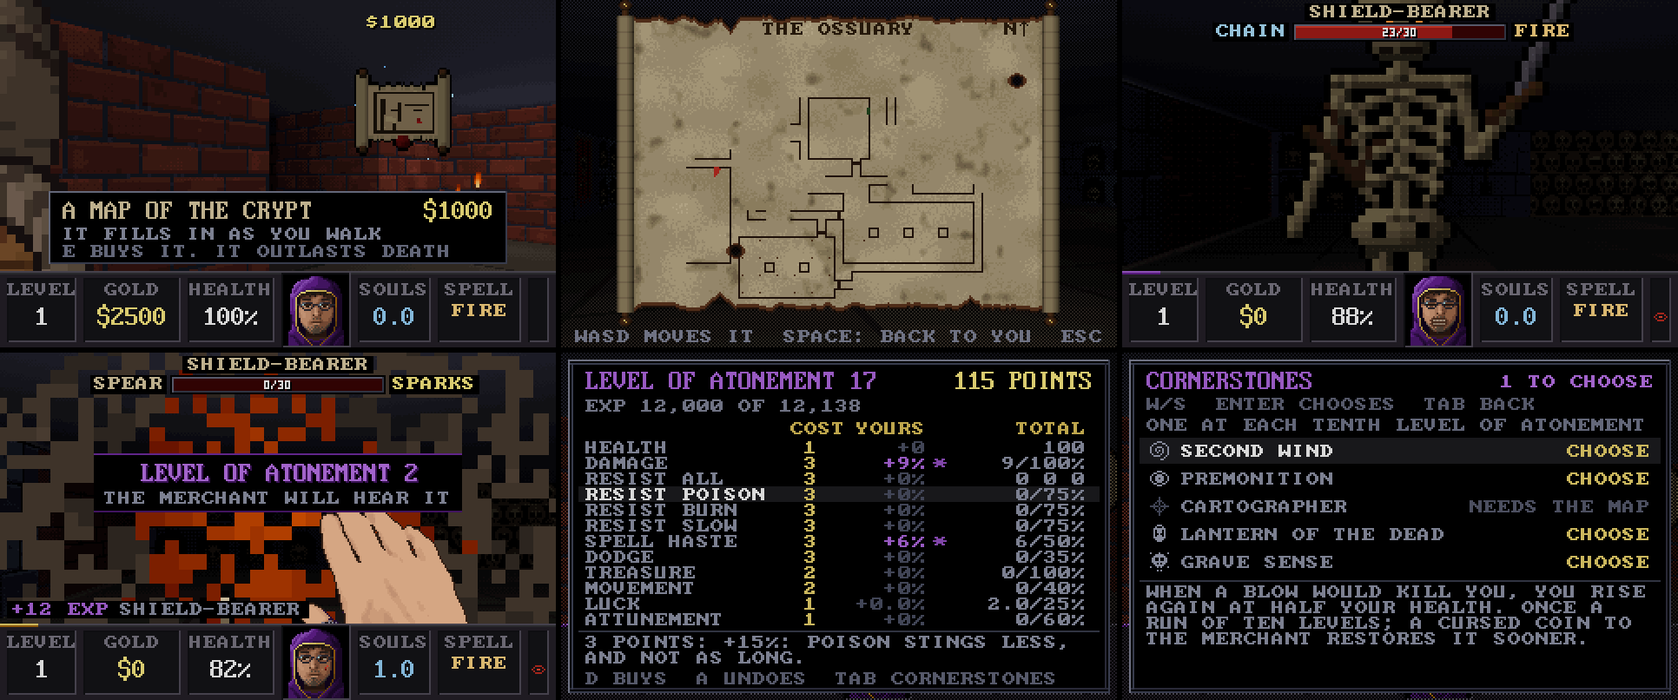
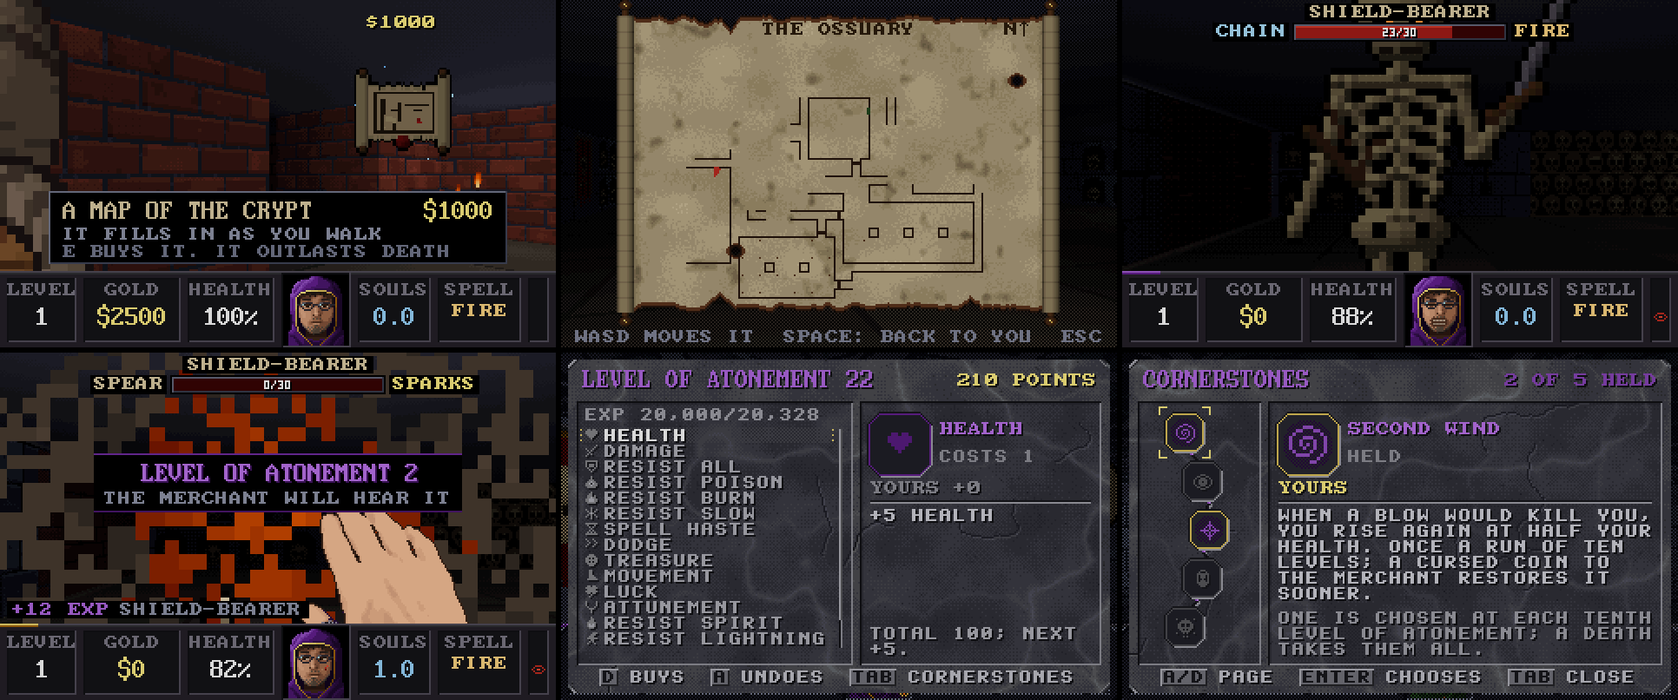
The pass over the screens, step 9: the checks, and the previews taken again
Every screen was taken at the four runs' palettes, with keys and with a pad
(uishots.sh's new PAD=1), and in a Backrooms pocket; the fit checks find
nothing. ASan is clean over every recipe (uishots.sh's new HOST=). The whole
pass gives the same EVENT lines as the build it began from: three dreams and
six sessions of a person.

One more fault is mended: toasts no longer draw over a menu's corner or the
tally's title, and wait until it is gone.

The ten README previews that show a menu are taken again: new frames of the
same screens, with the frames that show no menu kept from the old strips. The
page's descriptions of them are rewritten to match. A debug switch,
CRAWL_SEENALL, gives the bestiary's shots creatures to show.

Claude-Session: https://claude.ai/code/session_017SN6xpKregekzdwApnjVG9

Changed region(s): [[0.3106, 0.4963, 1.0, 1.0]]

diff --git a/site/index.html b/site/index.html
@@ -700,15 +700,15 @@ C:\&gt;<span id="cmd">HAUNTED.EXE</span><span class="cursor"></span></pre>
       <figcaption>A trial's door, Rising Water, the Prisms, the hidden message found and read, and the reckoning at the exit.</figcaption>
     </figure>
     <figure>
-      <img src="img/preview_catacomb_alignment.png" loading="lazy" width="1932" height="806" alt="Six frames of the Alignment and souls: the Lampstand's screen, FIRE RANK 20, its nodes from FIRE through FIRESTARTER and FIRE MASTERY to FIREWALL, the other path dimmed; a flame spirit with a face circling by the caster's hand in a saints' catacomb; her question, WHAT WERE YOU?, THE WITCHFINDER, with the six classes' marks and the Witchfinder's story; the map open on torn parchment while walking, its ink running on in pale violet across a hole burnt through it; a shield-bearer's health, 38/38, with the glyphs of what hurts it most and least; and a bat latched across the lower view, its wings from edge to edge and the edges of sight violet">
+      <img src="img/preview_catacomb_alignment.png" loading="lazy" width="1932" height="806" alt="Six frames of the Alignment and souls: the Lampstand's screen, FIRE RANK 17, its nodes laid out as a tree in carved sockets with Firestarter chosen and the pane beside it; a flame spirit with a face circling by the caster's hand in a saints' catacomb; her question of another past, THE ANATOMIST, with the six classes' marks in medallions and the Anatomist's story; the map open on torn parchment while walking, its ink running on in pale violet across a hole burnt through it; a shield-bearer's health, 38/38, with the glyphs of what hurts it most and least; and a bat latched across the lower view, its wings from edge to edge and the edges of sight violet">
       <figcaption>The Lampstand, Firewall's spirits, her question, the map at a walk, a target's glyphs, and a bat that has latched on.</figcaption>
     </figure>
     <figure>
-      <img src="img/preview_catacomb_atonement.png" loading="lazy" width="1932" height="806" alt="Six frames of the map and Levels of Atonement: a small scroll floating beside the merchant over its card, A MAP OF THE CRYPT, $1000, IT FILLS IN AS YOU WALK; the map unrolled on torn parchment, THE OSSUARY, its halls and rooms in brown ink and a red arrow; a shield-bearer with its health, 23/30, between CHAIN and FIRE; LEVEL OF ATONEMENT 2, THE MERCHANT WILL HEAR IT, over a fireball, +12 EXP SHIELD-BEARER at the lower left; the caster's screen, LEVEL OF ATONEMENT 17, 115 POINTS, with damage and spell haste bought; and CORNERSTONES, 1 TO CHOOSE, from Second Wind to Grave Sense">
+      <img src="img/preview_catacomb_atonement.png" loading="lazy" width="1932" height="806" alt="Six frames of the map and Levels of Atonement: a small scroll floating beside the merchant over its card, A MAP OF THE CRYPT, $1000, IT FILLS IN AS YOU WALK; the map unrolled on torn parchment, THE OSSUARY, its halls and rooms in brown ink and a red arrow; a shield-bearer with its health, 23/30, between CHAIN and FIRE; LEVEL OF ATONEMENT 2, THE MERCHANT WILL HEAR IT, over a fireball, +12 EXP SHIELD-BEARER at the lower left; the ascend screen in carved marble, LEVEL OF ATONEMENT 22, 210 POINTS, its lines down the left with their marks and the chosen one's pane; and CORNERSTONES, 2 OF 5 HELD, five sockets down a carved bow from Second Wind to Grave Sense">
       <figcaption>The map at the merchant's and unrolled, a target's health, a Level of Atonement banked, the caster's screen and the cornerstones (the map and the target's readout as they were before the eleventh beta).</figcaption>
     </figure>
     <figure>
-      <img src="img/preview_catacomb_pad.png" loading="lazy" width="1932" height="806" alt="Six frames with a game controller: HOLD ANY BUTTON TO ENTER THE CRYPT over HAUNT.EXE's grinning jack-o'-lantern; THE CONTROLS ARE YOURS in the pad's words, L-STICK WALK, R-STICK TURN, RT CASTS, A OPENS in green, above a ware's card, A BUYS, X HOLDS; the merchant's prompt, A: SIGN HER LEDGER, OR PAT HER; the wardrobe, D-PAD PICK, A MOVE, LB/RB PAGE; the bestiary, B CLOSE in red; and the Codex's page for Swift Dodge, B, AND THE WAY THE LEFT STICK LEANS">
+      <img src="img/preview_catacomb_pad.png" loading="lazy" width="1932" height="806" alt="Six frames with a game controller: HOLD ANY BUTTON TO ENTER THE CRYPT over HAUNT.EXE's grinning jack-o'-lantern; the controls in the pad's words on a band of stone, L-STICK WALK, R-STICK TURN, RT CASTS, A OPENS in green; the merchant's prompt, A: SIGN HER LEDGER, OR PAT HER; the wardrobe as sockets on a carved figure, D-PAD PICK, A MOVE, LB/RB PAGE on key caps; the bestiary's page for the shambler, standing in an arched niche, B CLOSE in red; and the Codex's page for Treasure Hunter, its keys on caps along the foot">
       <figcaption>With a controller: holding a button over the pumpkin patch, the controls and the cards in the pad's words, the wardrobe, the bestiary and the Codex.</figcaption>
     </figure>
     <figure>
@@ -716,16 +716,16 @@ C:\&gt;<span id="cmd">HAUNTED.EXE</span><span class="cursor"></span></pre>
       <figcaption>The four bosses in their own rooms: the knight's card and its blade, the spider's card, the Deacon in his chapel, and the Wraith struck on its throne beside a void.</figcaption>
     </figure>
     <figure>
-      <img src="img/preview_catacomb_ledger.png" loading="lazy" width="1932" height="806" alt="Six frames of CATACOMB's ledger and death: the merchant's menu, SIGN THE LEDGER, ANOTHER PEDESTAL, PAT HER, LEAVE, with a red warning that the run is unsigned; SIGN THE LEDGER with two signed pages and a blank one; a red card, YOU DIED ON LEVEL 12, TAKEN BY A ROTTEN SHIELD-BEARER; a gravestone's page, HERE LIES A DWELLER, with its spellbook and runes; THE DWELLER FAILED THIS TRIAL over a sealed doorway; and the card CAUGHT CHEATING THE DEAD">
+      <img src="img/preview_catacomb_ledger.png" loading="lazy" width="1932" height="806" alt="Six frames of CATACOMB's ledger and death, cut in marble: the merchant's menu, SIGN THE LEDGER, ANOTHER PEDESTAL, PAT HER, LEAVE, with a red warning that the run is unsigned; SIGN THE LEDGER, three blank pages on a ledger stone with her paw in its corners; a headstone over the red haze, YOU DIED ON LEVEL 21, and what went with you; a gravestone's page as a headstone, HERE LIES A DWELLER, with its lines and runes; THE DWELLER FAILED THIS TRIAL over a sealed doorway; and the headstone CAUGHT CHEATING THE DEAD">
       <figcaption>Her menu, signing the ledger, a death and its stone, a trial failed, and her claim.</figcaption>
     </figure>
     <div class="folds">
       <details>
         <summary>Earlier screens <span class="hint">the crypt, the creatures, HAUNT.EXE</span></summary>
         <div class="fold">
-          <p>The strips of menus, creatures, wisps and pockets were made before the tenth beta, and show the crypt's old walls behind them.</p>
+          <p>Every menu in these strips was taken again for the pass over the screens. The frames of creatures, wisps and pockets, and some of the crypt's, are older: made before the tenth beta, they show the crypt's old walls and the old status bar.</p>
           <figure>
-            <img src="img/preview_catacomb_hall.png" loading="lazy" width="1932" height="806" alt="Six frames of the merchant's hall: the Accursed Portal, a red-violet swirl set in the grave plot's wall of ashlar and rubble; the Portal's screen with three runs and four challenges; the Hexed Totem's screen with Swift Dodge, Tangled Web, Grave Call and Wraithwalk; the Corpus Compendium's page of spells and prices; the Wretched Repository's places, gold and coins; and the Codex of Affixations' page on her claim">
+            <img src="img/preview_catacomb_hall.png" loading="lazy" width="1932" height="806" alt="Six frames of the merchant's hall: the Accursed Portal, a red-violet swirl set in the grave plot's wall of ashlar and rubble; the Portal's screen in marble with three runs and four challenges in a well; the Hexed Totem's screen, its four abilities with their rank sockets and the chosen one's words in a band; the Corpus Compendium's page of bracers and prices; the Wretched Repository's places, gold and coins; and the Codex of Affixations' page on Treasure Hunter">
             <figcaption>The Accursed Portal and its screen, the Hexed Totem, the Corpus Compendium, the Wretched Repository and the Codex.</figcaption>
           </figure>
           <figure>
@@ -737,7 +737,7 @@ C:\&gt;<span id="cmd">HAUNTED.EXE</span><span class="cursor"></span></pre>
             <figcaption>Severance: the doorway from the crypt, a white hall, a ward door, an office, a skeleton under the panels, and the water cooler.</figcaption>
           </figure>
           <figure>
-            <img src="img/preview_catacomb_shrine.png" loading="lazy" width="1932" height="806" alt="Six frames: the Rune Shrine, a pale stone with a gold ring and cross, sanctified, with E: CURSE IT WITH A CURSED COIN; its screen of nine empty slots, cursed and giving Common runes; the slots filling, THREE COMMON MEND BECOME ONE UNCOMMON; the caster's page with two Cursed Coins and the runes held; A CURSED COIN AT THE END OF A CHAIN sliding in for the shrine; and the Black Altar offering to send its wisp on for 20 souls">
+            <img src="img/preview_catacomb_shrine.png" loading="lazy" width="1932" height="806" alt="Six frames: the Rune Shrine, a pale stone with a gold ring and cross, sanctified, with E: CURSE IT WITH A CURSED COIN; its screen in marble, nine slots cut as cups, cursed and giving Uncommon runes; the runes of a pull coming into the slots; the caster's page with its totals and the runes held; A CURSED COIN AT THE END OF A CHAIN sliding in for the shrine; and the Black Altar's three gifts on a tablet, WAKE ITS WISP for 10 souls">
             <figcaption>The Rune Shrine sanctified, cursed and pulled, three runes combining, the caster's runes and coins, a coin found, and the altar sending its wisp on.</figcaption>
           </figure>
           <figure>
@@ -745,19 +745,19 @@ C:\&gt;<span id="cmd">HAUNTED.EXE</span><span class="cursor"></span></pre>
             <figcaption>Shambler, Drowned, bone hound, the Wraith; hunting spider, ghoul, knight, brood mother; shade, ember imp, deacon and gargoyle.</figcaption>
           </figure>
           <figure>
-            <img src="img/preview_catacomb_bestiary.png" loading="lazy" width="1932" height="806" alt="Six frames: an achievement, A HOLLOW KNOCK, sliding in as a secret wall grinds back; the bestiary's pages for a blue skeleton, a skeleton knight, a green deacon and a red gargoyle, each with its kills and what hurts it; and the list of achievements, 16 of 112 earned">
+            <img src="img/preview_catacomb_bestiary.png" loading="lazy" width="1932" height="806" alt="Six frames: an achievement, A HOLLOW KNOCK, sliding in as a secret wall grinds back; the bestiary's pages, each creature standing in an arched niche: a skeleton, a rotten bat of rank II, the Whipper-In and the Sexton, each with its kills and what hurts it; and the list of achievements in a well with its scroll's groove">
             <figcaption>An achievement, four pages of the bestiary in four ranks, and the achievements.</figcaption>
           </figure>
           <figure>
-            <img src="img/preview_catacomb_wisps.png" loading="lazy" width="1932" height="806" alt="Six frames of CATACOMB's wisps: the WISPS list with the way out and the gold, silver and crimson keys at a soul each; a wisp kindling, bright, for the silver key; an exit wisp's blue trail down a hall; THE BLACK ALTAR's three gifts and their prices; a green skeleton beside a blessed wisp's trail; and the blessed wisp, haloed in pale gold, waiting at the rune-sealed exit">
+            <img src="img/preview_catacomb_wisps.png" loading="lazy" width="1932" height="806" alt="Six frames of CATACOMB's wisps: the WISPS list on a tablet, the way out for a soul, its toggle a cup cut in the stone; a wisp kindling, bright, for the silver key; an exit wisp's blue trail down a hall; THE BLACK ALTAR's three gifts on a tablet; a green skeleton beside a blessed wisp's trail; and the blessed wisp, haloed in pale gold, waiting at the rune-sealed exit">
             <figcaption>The wisps, the keys' wisps and the Black Altar's gifts; a blessed wisp at the way out.</figcaption>
           </figure>
           <figure>
-            <img src="img/preview_catacomb_play.png" loading="lazy" width="1932" height="806" alt="Six frames of CATACOMB played by hand: the HOLD H TO TAKE CONTROL bar, with the small readout raised above it, in an ossuary; the controls listed over a clear view and the status bar; the merchant's card for a pair of Rare Boots of Shadows, free on the first visit; a fireball leaving the hand and bursting on a skeleton; the wardrobe, with Uncommon Robes of the Bulwark chosen and three spares in the bag; and the LEAVE THE CRYPT? question, with OPEN THE LEDGER below the rule">
+            <img src="img/preview_catacomb_play.png" loading="lazy" width="1932" height="806" alt="Six frames of CATACOMB played by hand: the HOLD H TO TAKE CONTROL bar in the merchant's room; the controls listed on a band of stone over a skeleton's health; the merchant's card for Uncommon Robes of Quickening at 7,425 gold, on a band of stone; a fireball leaving the hand and bursting on a skeleton; the wardrobe as sockets on a carved figure, a bracer chosen and its card in the pane; and the LEAVE THE CRYPT? headstone, OPEN THE LEDGER below the rule">
             <figcaption>Taking over, shopping, casting, the wardrobe and the question at Esc.</figcaption>
           </figure>
           <figure>
-            <img src="img/preview_catacomb_items.png" loading="lazy" width="1932" height="806" alt="Six frames of CATACOMB's wares: the merchant's card for an Anointed Exquisite Communing Hood of the Bulwark in gold; the caster's page of totals, with what abilities add and the spellbook; THE BAG IS FULL, asking which spare to let go; a spectre and a shield-bearer shown as red shapes through the wall by Commune; a Black Altar woken, a violet flame in its bowl and its violet wisp's motes going off down the hall; and the altar burning gold">
+            <img src="img/preview_catacomb_items.png" loading="lazy" width="1932" height="806" alt="Six frames of CATACOMB's wares: the merchant's card for an Anointed Exquisite Communing Hood of the Bulwark in gold; the caster's page of totals in a well of marble, with what abilities add and the runes held; THE BAG IS FULL, the bag's places and a spare's card in wells; a spectre and a shield-bearer shown as red shapes through the wall by Commune; a Black Altar woken, a violet flame in its bowl and its violet wisp's motes going off down the hall; and the altar burning gold">
             <figcaption>An Exquisite hood, the caster's totals, a full bag, Commune, and a Black Altar woken and burning gold.</figcaption>
           </figure>
           <figure>

diff --git a/src/scene_crawl.c b/src/scene_crawl.c
@@ -3852,7 +3852,8 @@ static void toast(int spr, int family, int rank, int progress, const char *title
 static int boss_fighting(void);
 static void update_toasts(float dt) {
     if (!TOASTS.n || boss_fighting()) return;                      /* they wait out a boss's fight, */
-    if (G.hint_t > 0.0f && G.player && !G.ui && !G.dead) return;   /* and the controls card, which they would cover */
+    if (G.hint_t > 0.0f && G.player && !G.ui && !G.dead) return;   /* and the controls card, which they would cover, */
+    if ((G.player && G.ui) || G.tally) return;                     /* and a menu or the tally, over whose corner they had come */
     if (TOASTS.t < 0.0f) { TOASTS.t = 0.0f; snd_sfx_ex(TOASTS.q[0].progress ? SFX_TICK : SFX_KEYGET, TOASTS.q[0].progress ? 0.6f : 0.9f, 0.5f); }
     TOASTS.t += dt;
     if (TOASTS.t >= toast_len(&TOASTS.q[0])) {
@@ -10542,6 +10543,10 @@ static void debug_gear(void) {
     if (getenv("CRAWL_ABIL")) give_ability(atoi(getenv("CRAWL_ABIL")));
     if (getenv("CRAWL_BAG")) give_bag(atoi(getenv("CRAWL_BAG")));
     if (getenv("CRAWL_GOLD")) RUN.treasure = atoi(getenv("CRAWL_GOLD"));
+    if (getenv("CRAWL_SEENALL")) for (int k = 0; k < NKINDS && k < REC_KINDS; k++) {   /* every kind met, and some slain, for the shots */
+        RUN.rec.seen[k] = 0x1f;
+        for (int r = 0; r < NRANK; r++) RUN.rec.kills[k][r] = (uint16_t)((k * 7 + r * 5) % 23 + (r == 0 ? 30 : 0));
+    }
     if (getenv("CRAWL_STONE")) for (int k = 0; k < atoi(getenv("CRAWL_STONE")) && k < STONES; k++) {   /* stones in the plot, from what is held */
         Stone *st = &RUN.stones[k];
         memset(st, 0, sizeof *st);
@@ -26411,7 +26416,7 @@ static void crawl_render(Frame *f) {
 #ifdef CRAWL_DEBUG
     ui_check = 1; ui_check_frame();
 #endif
-    if (G.tally) { render_tally(f); if (G.player && G.ui) render_ui(f); render_toasts(f); con_render(f); return; }
+    if (G.tally) { render_tally(f); if (G.player && G.ui) render_ui(f); con_render(f); return; }   /* toasts wait for the next level */
     g_camfog = fog_at(G.px, G.py);
     fog_tint = G.tri >= 0 && G.tri_state == TRS_ON && in_trial((int)G.px, (int)G.py) ? TRI_FOG[G.tri] : 0;   /* a trial's room, turned */
     float ang = G.ang + G.kick;
@@ -26446,7 +26451,7 @@ static void crawl_render(Frame *f) {
     render_messages(f);
     if (G.claim_card) render_claim(f);
     if (G.player && G.ui) render_ui(f);
-    if (!(G.player && G.ui == UI_CLASS)) render_toasts(f);
+    if (!(G.player && G.ui)) render_toasts(f);                     /* never over a menu: they wait for it */
     tint(f);
     con_render(f);
 }

diff --git a/README.md b/README.md
@@ -36,7 +36,7 @@ Two scenes are included. They alternate every few minutes (configurable) with a 
 
 ![CATACOMB's four runs: a chapter house with its plaster falling away and a knight's slab with candles in the Crypts; a shield-bearer wading through a cistern and a spinners' gallery of bone and webs in the Catacombs; a timbered gallery with mine carts and a lamp, and a fossil hall with a fire, in the Hollows; a geode under a roof of amethyst, and a glass hall with its cracks alight, in the Deep](docs/preview_catacomb_runs.png)
 ![CATACOMB's trials and puzzles: a trial's door marked with skull and crossed bones in the Catacombs, Rising Water under way with its hourglass and the drowned wading in, the magma's beam through two glass prisms in a Deep puzzle, the hidden message found in a candle-box, the documents page with the leaf's text, and the reckoning's slip at the exit, THE DEAD KEEP COUNT](docs/preview_catacomb_trials.png)
-![CATACOMB's Alignment and souls: the Lampstand's screen with Fire at rank 20 and Firewall bought, a flame spirit circling the caster's hand, her question WHAT WERE YOU? at the Witchfinder, the map open while walking with violet ink across a hole burnt in the parchment, a shield-bearer's health with the glyphs of what hurts it, and a bat latched across the view](docs/preview_catacomb_alignment.png)
+![CATACOMB's Alignment and souls: the Lampstand's tree with Fire at rank 17 and Firestarter chosen, a flame spirit circling the caster's hand, her question of another past at the Anatomist, the map open while walking with violet ink across a hole burnt in the parchment, a shield-bearer's health with the glyphs of what hurts it, and a bat latched across the view](docs/preview_catacomb_alignment.png)
 ![CATACOMB's map and Levels of Atonement: the map floating beside the merchant with its card, the map unrolled in the Ossuary, a shield-bearer's health with the spells that hurt it most and least, a Level of Atonement banked as it falls, the caster's screen, and the cornerstones](docs/preview_catacomb_atonement.png)
 ![CATACOMB with a game controller: holding a button over HAUNT.EXE's pumpkin patch, the controls in the pad's words, the merchant's prompt, the wardrobe, the bestiary and the Codex with their buttons in colour](docs/preview_catacomb_pad.png)
 ![CATACOMB's bosses: the Ill-Fated Skeleton Knight's card in the knights' vault, the knight raising its blade, the Wandering Hunting Spider's card in its gallery, the Black Deacon in his chapel in a green light with his ward's shards about him, a fire bursting on him, and a Fire Bolt bursting on the Wraith Unbound on its throne beside a void](docs/preview_catacomb_bosses.png)
@@ -44,12 +44,12 @@ Two scenes are included. They alternate every few minutes (configurable) with a 
 ![CATACOMB's hall: the Accursed Portal in the grave plot's ashlar and its screen, the Hexed Totem, the Corpus Compendium, the Wretched Repository and the Codex of Affixations](docs/preview_catacomb_hall.png)
 ![CATACOMB's Backrooms: a chained room's doorway from the crypt, a corridor under the tubes, a leak, a candlestand hanging from the ceiling, a shambler caught in a loop, and the visportal at a chain's end](docs/preview_catacomb_backrooms.png)
 ![CATACOMB's Severance: the doorway from the crypt, a white hall, a ward door, an office's desks, a skeleton under the panels, and the water cooler at a chain's end](docs/preview_catacomb_severance.png)
-![CATACOMB's Rune Shrine: the shrine in the merchant's room, its screen, three runes combining, the caster's runes and coins, a Cursed Coin found, and the Black Altar sending its wisp on](docs/preview_catacomb_shrine.png)
+![CATACOMB's Rune Shrine: the shrine in the merchant's room, its screen, a pull's runes coming in, the caster's totals and runes, a Cursed Coin found, and the Black Altar's gifts](docs/preview_catacomb_shrine.png)
 ![CATACOMB: the new creatures in the crypt, from the shambler to the gargoyle](docs/preview_catacomb_creatures.png)
 ![CATACOMB: an achievement, the bestiary's pages and the achievements list](docs/preview_catacomb_bestiary.png)
 ![CATACOMB: the merchant in her hall of ashlar, her wares, a burial vault, an ossuary, Fire Bolts at a spectre and a skeleton, a chapter house, and the caster's portrait after a hit](docs/preview_catacomb.png)
 ![CATACOMB: a chandelier over an ossuary's bone walls, a hoard with a crown, a vault strapped in gold, a cracked wall pressed and the secret behind it, and the rune-sealed exit with a wisp before it](docs/preview_catacomb_crypt.png)
-![CATACOMB's wisps: the L list with three keys lying, a wisp kindling for the silver key, an exit wisp's trail down a hall, the Black Altar's gifts, a skeleton by a blessed wisp's trail, and the blessed wisp waiting at the way out](docs/preview_catacomb_wisps.png)
+![CATACOMB's wisps: the L list, a wisp kindling for the silver key, an exit wisp's trail down a hall, the Black Altar's gifts, a skeleton by a blessed wisp's trail, and the blessed wisp waiting at the way out](docs/preview_catacomb_wisps.png)
 ![CATACOMB played by hand: holding H, the controls, shopping, casting, the wardrobe and the question at Esc](docs/preview_catacomb_play.png)
 ![CATACOMB's wares: an Exquisite hood at the merchant, the caster's numbers, a full bag, Commune's red shapes through the wall, and a Black Altar woken and burning gold](docs/preview_catacomb_items.png)
 ![HAUNT.EXE: the jack-o'-lantern and the skull](docs/preview_haunt_art.png)

diff --git a/docs/PLAN-ui.md b/docs/PLAN-ui.md
@@ -5,7 +5,7 @@ before PLAN-ai's step 11, and U10 (b), full screens keep the crypt dimmed in a 4
 `claude/gifted-rubin-q8up37` from main (1.0.0b13 with the art pass so far and PLAN-ai's steps 0-10). Step 0 is done (the
 before sheets in `docs/uipass/`). Step 1's sheet was approved by the owner (3 November). Step 2 is built (harness only): every menu, card and the tally
 wear the stone. Step 3 is built (harness only): the Alignment, at the Lampstand and on Tab's fourth page, is the
-approved stone. Step 4 is built (harness only): the cornerstones, the Hexed Totem, ascend and her question of what you were. Step 5 is built (harness only): Tab's pages, the bestiary and the Codex. Step 6 is built (harness only): her hall's screens. Step 7 is built (harness only): the crypt's screens, the cards and the tally. Step 8 is built (harness only): the HUD in the run's stone. Like the art pass, it is visual only: nothing in the simulation, the saves or the
+approved stone. Step 4 is built (harness only): the cornerstones, the Hexed Totem, ascend and her question of what you were. Step 5 is built (harness only): Tab's pages, the bestiary and the Codex. Step 6 is built (harness only): her hall's screens. Step 7 is built (harness only): the crypt's screens, the cards and the tally. Step 8 is built (harness only): the HUD in the run's stone. Step 9, the checks, is done: the pass is built. Like the art pass, it is visual only: nothing in the simulation, the saves or the
 autopilot's numbers may move.**
 
 ## Decided (3 November 2026)
@@ -380,7 +380,7 @@ Each step committed, pushed and logged at the end of this plan, so it can be han
    page, the full bag (built).
 7. **The crypt's:** Esc's question, the L list, the altar, the Black Shrine, the cards, the tally (built).
 8. **The HUD** (built).
-9. **The checks:** every screen at each run's palette, with keys and with a pad, at the darkest and brightest crypt behind;
+9. **The checks** (done): every screen at each run's palette, with keys and with a pad, at the darkest and brightest crypt behind;
    the fit script clean; a dream run with `CRAWL_RUNID` gives the same `EVENT` lines before and after (nothing in the
    simulation moved); ASan over sessions that open every screen; the README's previews retaken where they show a menu.
 
@@ -623,3 +623,20 @@ My answer is marked **(mine)**; the owner's take it over.
   up 1.74-1.82 ms against 1.61-1.67 (two runs of `bench` each), the dream 1.52-1.55 against 1.41-1.44. Frames:
   `docs/uipass/step8-L*.png`. Nothing played by hand. Next: step 9, the checks, with keys and with a pad, and the README's
   previews where they show a menu.
+- 3 November 2026, step 9: the checks. `tools/uishots.sh` gained `PAD=1` (every recipe played on a pad: the takeover held on X, E and
+  Enter on A, Esc on Menu, Tab on View, Space and L on Y, the D-pad for W/S/A/D in menus and for B, C and H in play; the recipes
+  that walk are left out) and `HOST=` (another build, an ASan one), and a recipe for the wardrobe in a Backrooms pocket, the
+  brightest crypt behind a menu. Every screen at the four palettes, with keys (`docs/uipass/step9-L*.png`) and with a pad
+  (`step9pad-L*.png`): the fit checks find nothing. In a pocket the menu reads, the yellow carpet and paper go grey in the 4 px
+  margin while the marble is lent, and come back as the menu closes. One more fault, mended: a toast went on being drawn over a
+  menu's corner and over the tally's title (section 1.2 had found it there at step 0); toasts now wait while a menu or the tally is
+  up, as they wait for a boss's fight and the controls card. ASan clean over every recipe at levels 1 and 31 with keys and at 21
+  with a pad (113 sessions). The pass whole, against the build it began from (main at the minds' steps 0-10, its `apl` given the
+  harness's fix for `HOST_INPUT`): two 900 s dreams, a 600 s dream from level 21 and six sessions of a person (the ledger signed,
+  Tab's pages and pieces moved, the Lampstand bought from, the tally and the reckoning, Esc and the L list, a pad through Tab and
+  the bestiary) give the same `EVENT` lines, line for line. A debug switch, `CRAWL_SEENALL=1` (every kind met, some slain), for
+  the bestiary's shots.
+  The README's previews that show a menu were taken again (ten strips: trials, alignment, atonement, pad, ledger, hall, shrine,
+  bestiary, wisps, play, items): their menus are new frames of the same screens, the frames without a menu kept from the old
+  strips; the old strips are in the history. The page's descriptions of them say what they now show, and its note says which
+  frames are older. Nothing played by hand. The pass is built; what is left is the owner's look, and the release.

diff --git a/CLAUDE.md b/CLAUDE.md
@@ -179,8 +179,8 @@ fourth page is `ui_tree`, filled by `render_align` from the line's state. Step 4
 icons for the kinds of piece), the bestiary (`ui_niche`) and the Codex. Step 6 is built (harness only; CI compiled the Windows
 build): her hall's screens (`hall_frame`, `hall_keys`, `ui_row`, `ui_scroll`). Step 7 is built (harness only; CI compiled the Windows build):
 the crypt's screens, the cards as headstones (`card_box`), the tally as a memorial tablet. Step 8 is built (harness only; CI compiled the
-Windows build): the HUD in the run's stone (the bar a tablet, `bevel` a well, `ui_band` behind words over the crypt). Step 9 (the checks)
-is next.
+Windows build): the HUD in the run's stone (the bar a tablet, `bevel` a well, `ui_band` behind words over the crypt). Step 9, the checks, is done
+(`PAD=1` and `HOST=` for `tools/uishots.sh`; the README's menu previews taken again): the pass is built, harness only.
 Its section 10 is the hand-off log: read it first.
 
 ## Working with the owner
@@ -280,7 +280,7 @@ level's omens on any level, every s seconds, the first at once), `CRAWL_TOTEM=dd
 each in boss order, and that boss counted beaten), `CRAWL_SCRIP=n` (n scrip of each boss, all four counted beaten),
 `CRAWL_PEDS=n` (the merchant's pedestals), `CRAWL_TPCAT=1` (before the merchant herself), `CRAWL_TPSTONE=1` (before the plot's newest stone), `CRAWL_STONE=n` (n stones in the plot, from what is held), `CRAWL_TPSHRINE=1`
 (before the Rune Shrine), `CRAWL_LETGO=1` (the full bag's question as you take over in her room, with a bag), `CRAWL_HOLDCARD=1` (a level's card and a boss's held
-up once shown), `CRAWL_CLAIM=1` (her claim's card as you take over, its words only, nothing taken), `CRAWL_TOAST=1` (a pop-up as you take over), `CRAWL_TPLECTERN=1` (before the Compendium), `CRAWL_TPREPO=1` (before the Repository), `CRAWL_TPTOTEM=1` (in the merchant's back room facing the Hexed Totem once you take control), `CRAWL_TPPORTAL=1` (in the
+up once shown), `CRAWL_CLAIM=1` (her claim's card as you take over, its words only, nothing taken), `CRAWL_TOAST=1` (a pop-up as you take over), `CRAWL_SEENALL=1` (every kind met and some slain, for the bestiary), `CRAWL_TPLECTERN=1` (before the Compendium), `CRAWL_TPREPO=1` (before the Repository), `CRAWL_TPTOTEM=1` (in the merchant's back room facing the Hexed Totem once you take control), `CRAWL_TPPORTAL=1` (in the
 grave plot facing the Accursed Portal), `CRAWL_RUNTOP=n` (the runs it opens: 0 only run I), `CRAWL_BSTEP=s` (every
 challenge at step s), `CRAWL_GOALS=1`
 (the autopilot's goal at every step, as `GOAL` lines),
